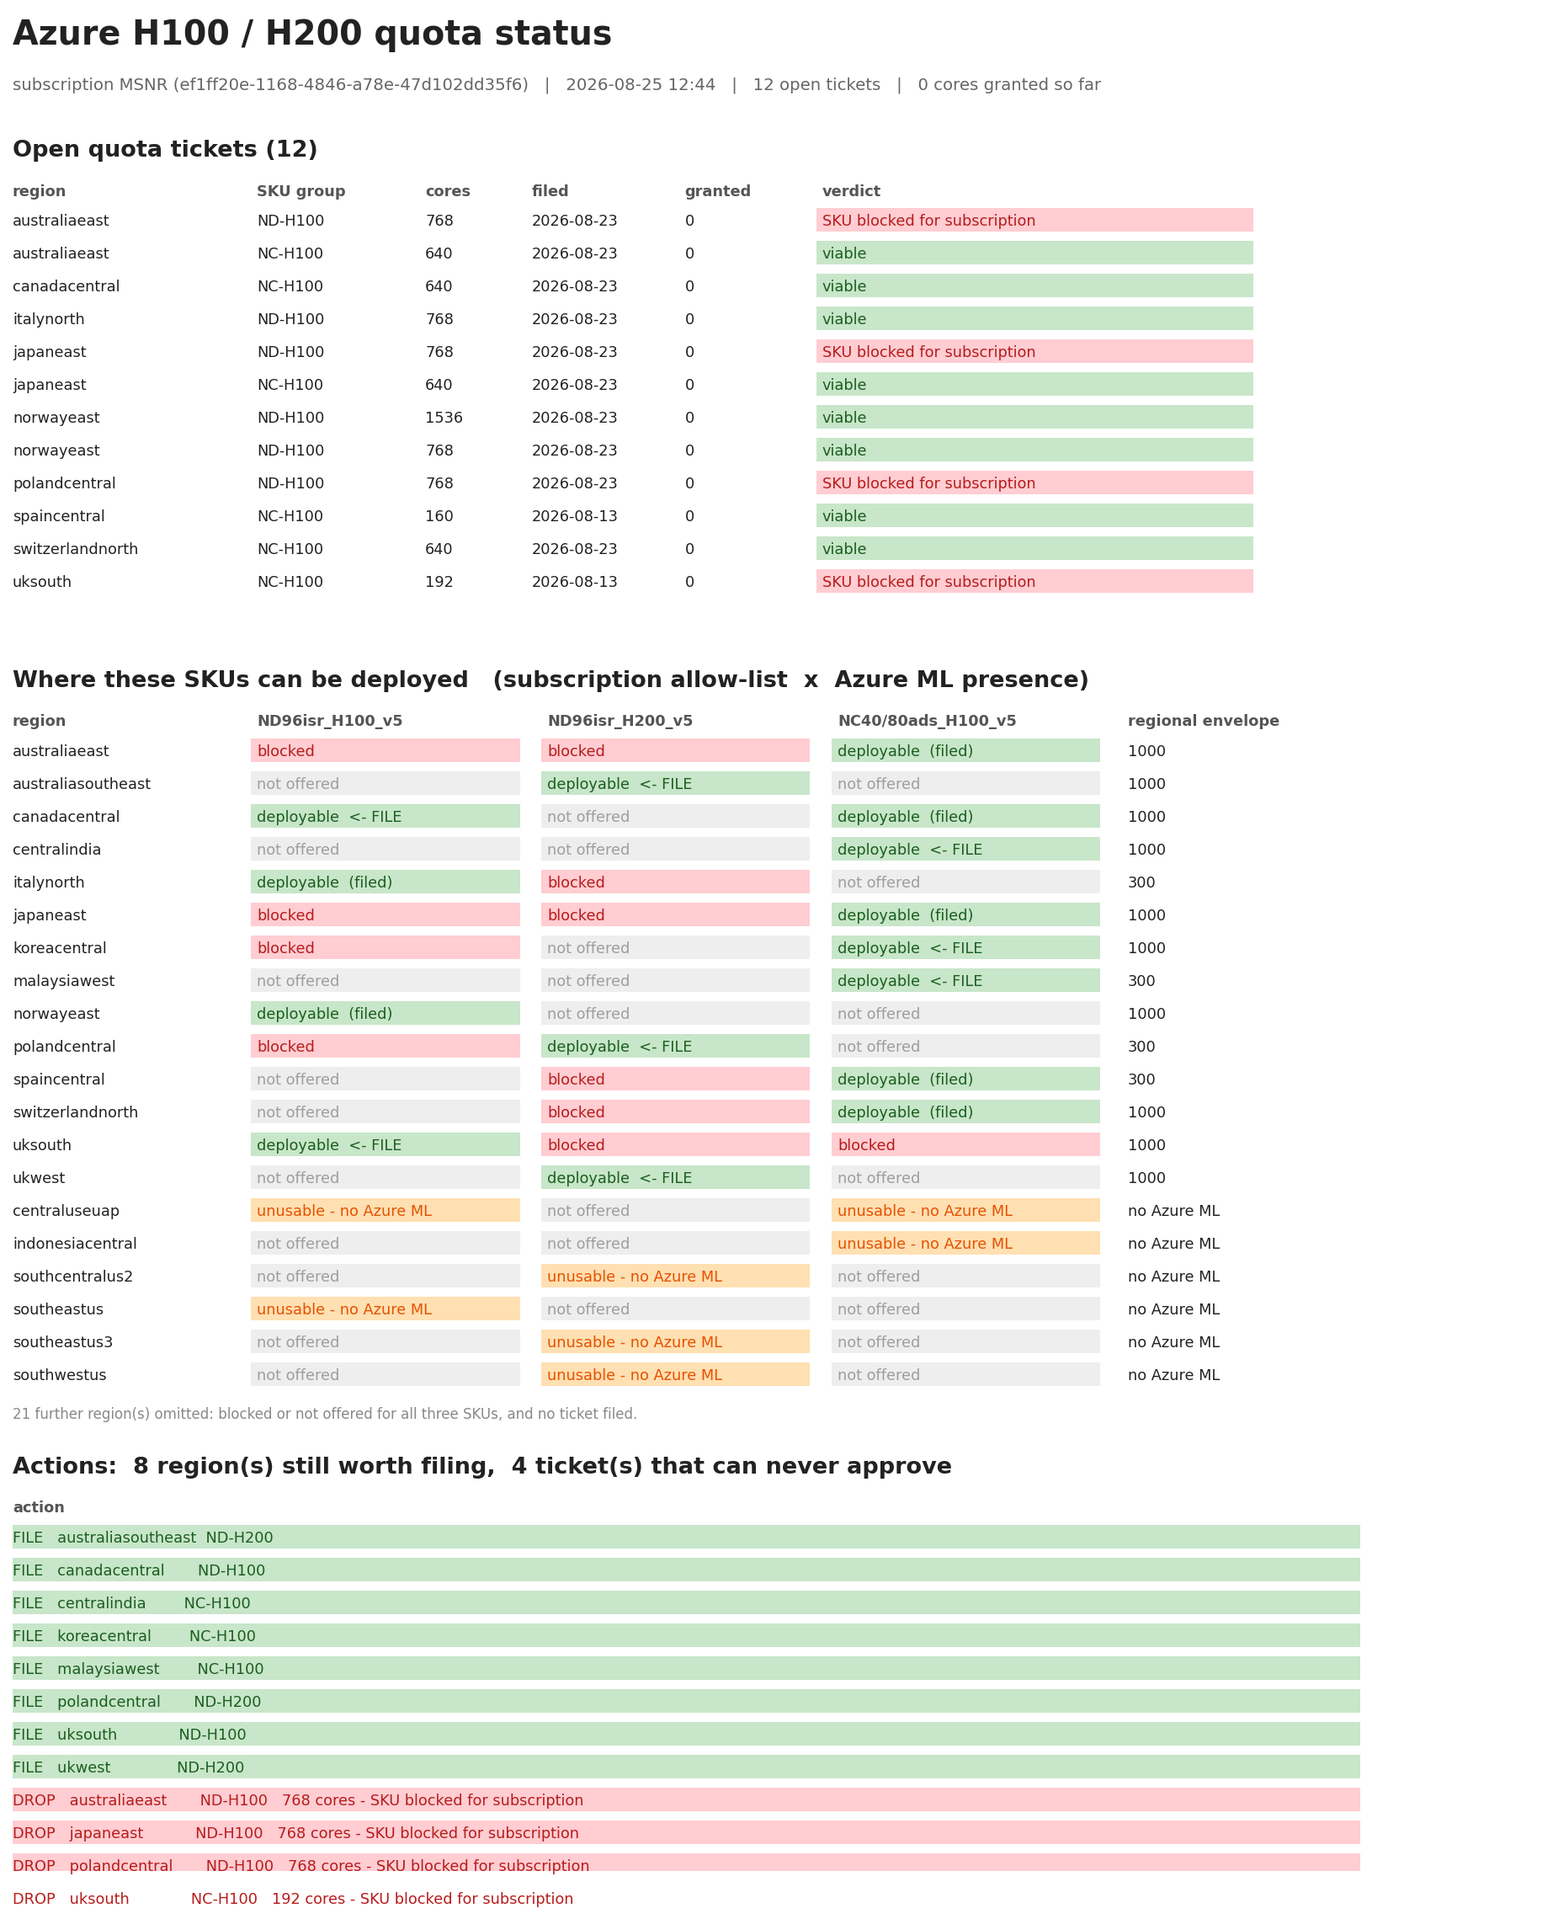
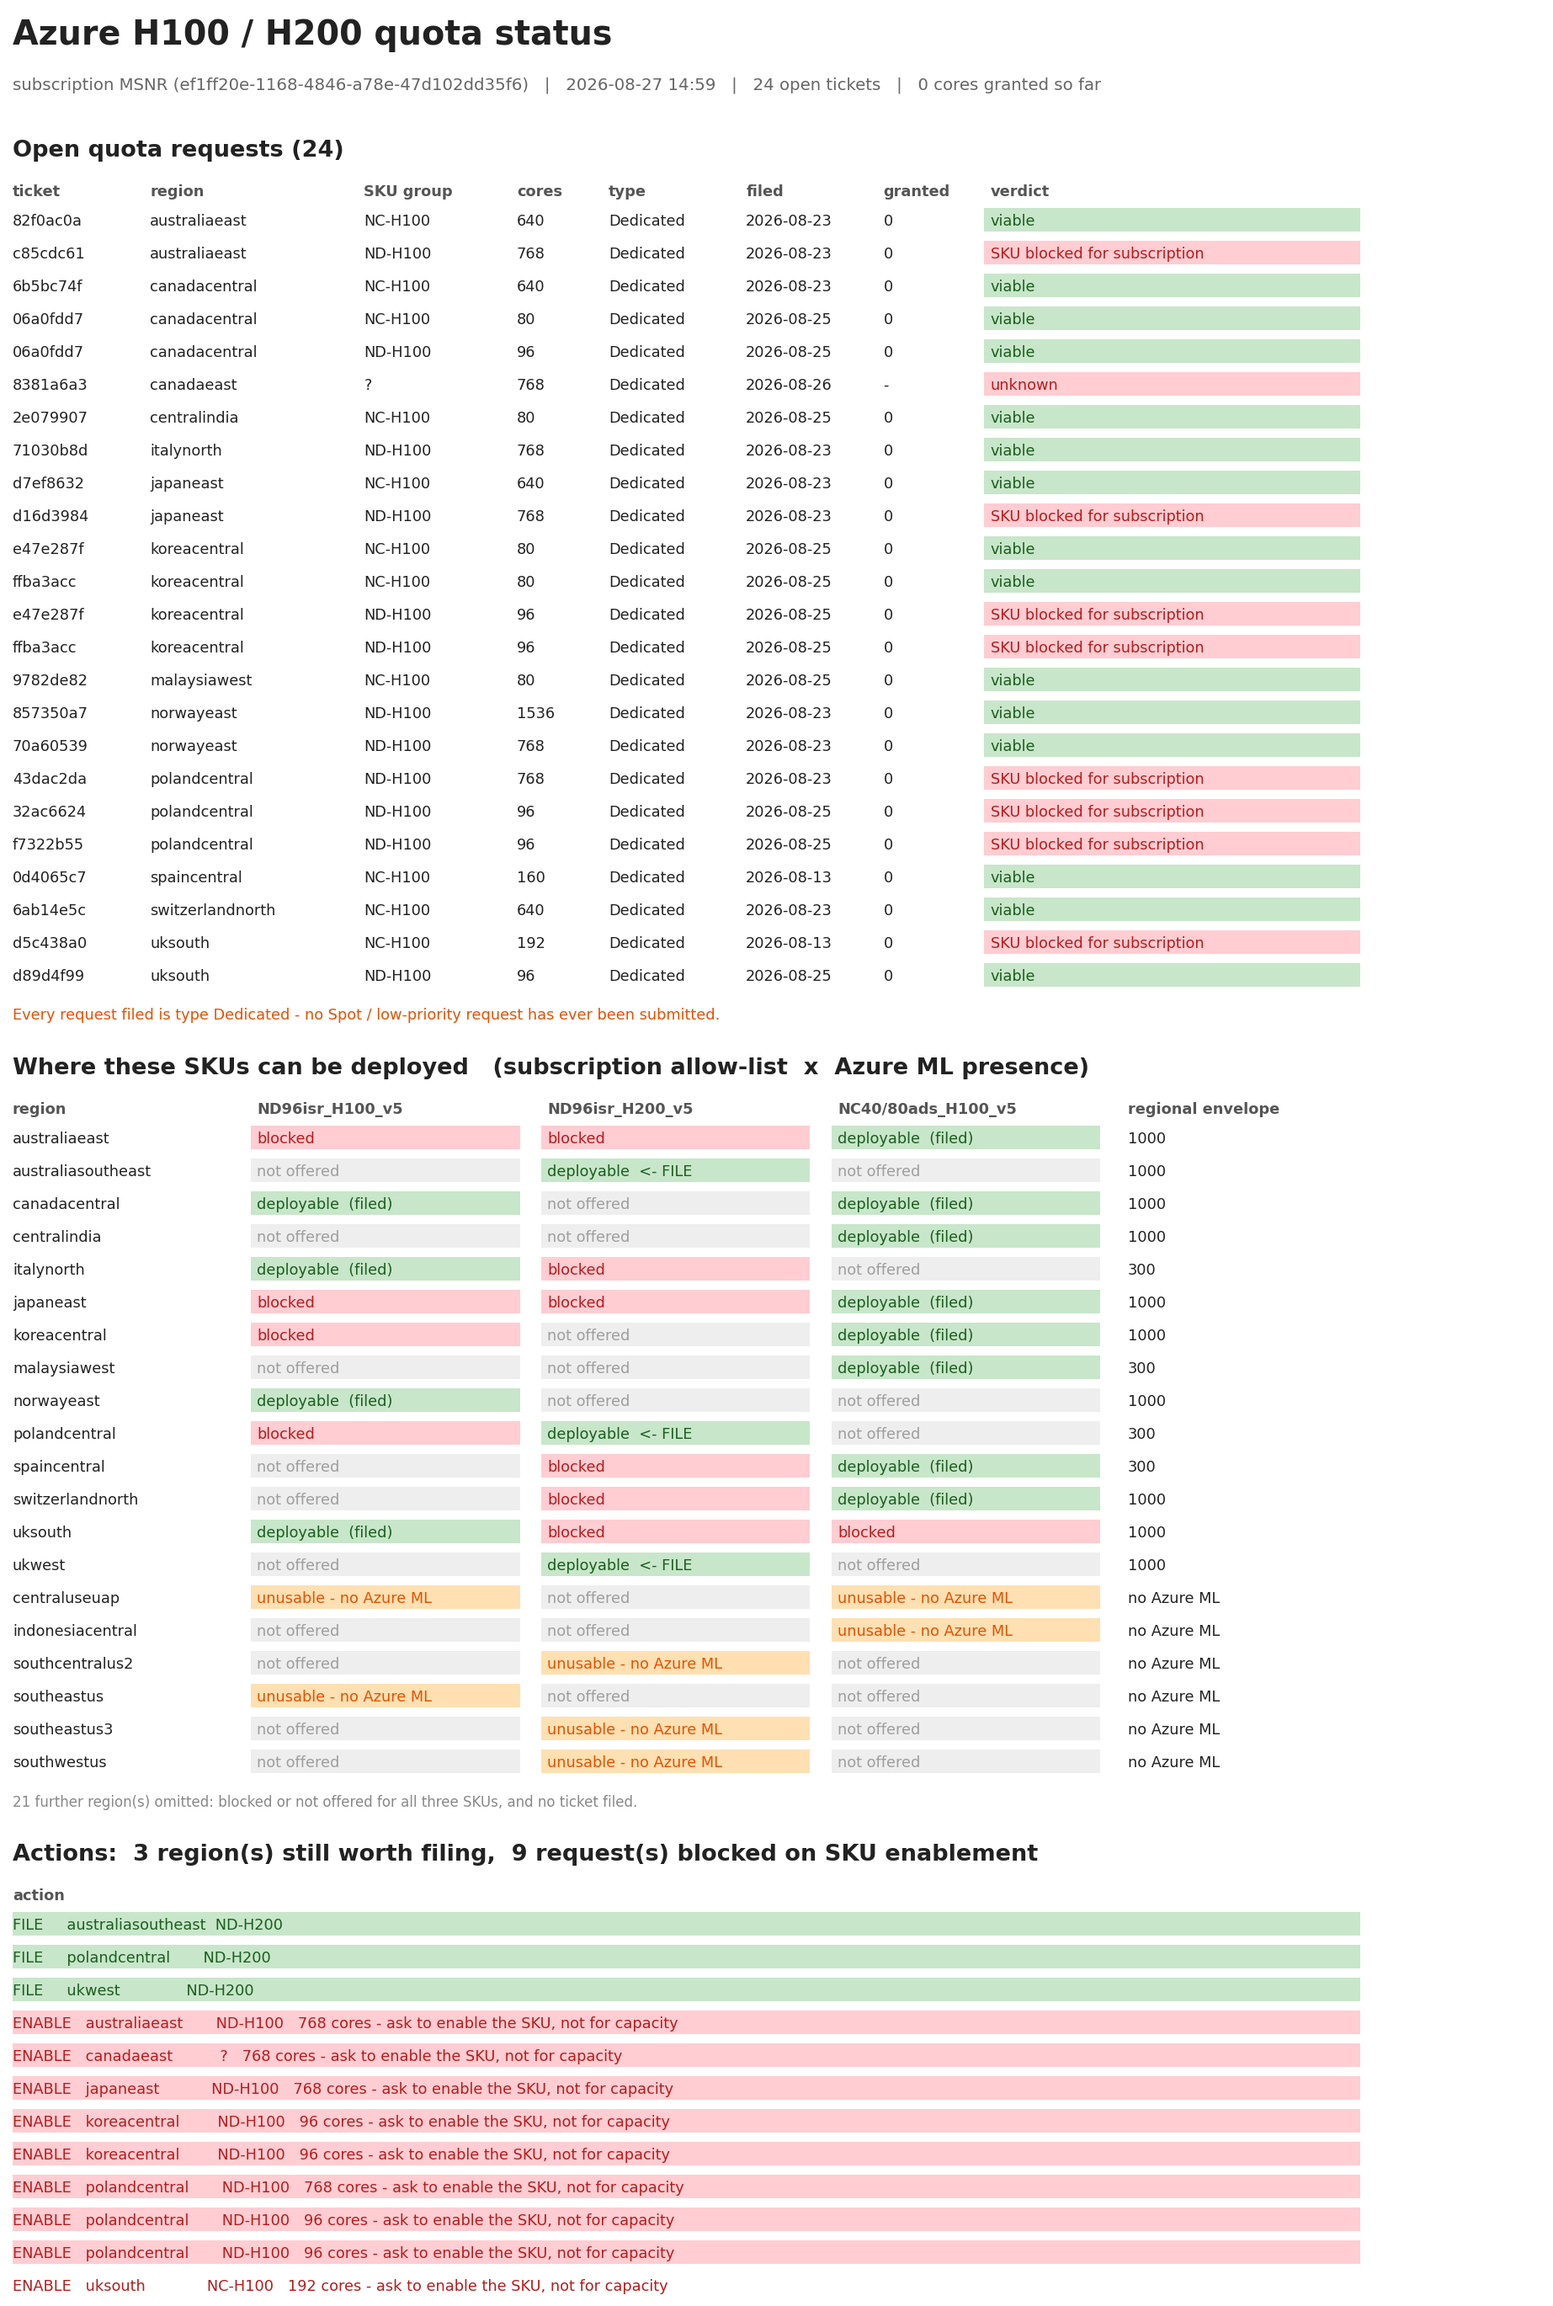
azure: quota board reads ticket payloads, one row per request
fetch_tickets() parsed the support ticket's description text, which names
only ONE of a ticket's quota change requests — the 2026-08-25 batch filed
ND and NC in the same ticket, so the board under-reported what had been
asked for and invented "not yet filed" gaps that were already filed.
quotaTicketDetails is the real payload and the only place the
Dedicated/LowPriority type appears, so read that instead: one row per
change request, with its type.

The report gains a ticket-id column (a region can now legitimately appear
several times, and the id is what the Azure portal keys on).

quota_status.png is the regenerated board.

diff --git a/src/pretrain/azure/quota_board.py b/src/pretrain/azure/quota_board.py
@@ -94,22 +94,40 @@ def fetch_aml(region):
 
 
 def fetch_tickets():
+    """One row per quota CHANGE REQUEST, not per ticket.
+
+    A single ticket can carry several quotaChangeRequests (the 2026-08-25 batch
+    filed ND and NC in the same ticket), and the description names only one of
+    them — reading the description alone silently under-reports what was filed
+    and invents "not yet filed" gaps. quotaTicketDetails is the real payload,
+    and it is also the only place the Dedicated/LowPriority type appears.
+    """
     data = az("rest", "--method", "get", "--url",
               f"https://management.azure.com/subscriptions/{SUB}/providers/"
               "Microsoft.Support/supportTickets?api-version=2020-04-01", "-o", "json")
     rows = []
     for t in (data or {}).get("value", []):
         p = t["properties"]
-        # Region/family/cores live in the description; the title is boilerplate.
-        m = re.search(r"Requesting (\d+) cores for VM Family - (\S+) in (\S+) region",
-                      p.get("description") or "")
-        if not m:
-            continue
-        rows.append(dict(created=p.get("createdDate", "")[:10],
-                         updated=p.get("modifiedDate", "")[:10],
-                         status=p.get("status", ""), region=m.group(3).lower(),
-                         family=m.group(2), cores=int(m.group(1)), id=t["name"]))
-    return sorted(rows, key=lambda r: (r["region"], r["created"]))
+        common = dict(created=p.get("createdDate", "")[:10],
+                      updated=p.get("modifiedDate", "")[:10],
+                      status=p.get("status", ""), id=t["name"])
+        reqs = (p.get("quotaTicketDetails") or {}).get("quotaChangeRequests") or []
+        for q in reqs:
+            try:
+                pl = json.loads(q.get("payload") or "{}")
+            except json.JSONDecodeError:
+                continue
+            rows.append(dict(region=(q.get("region") or "").lower(),
+                             family=pl.get("VMFamily", ""),
+                             cores=int(pl.get("NewLimit") or 0),
+                             type=pl.get("Type", "Dedicated"), **common))
+        if not reqs:   # older tickets without the structured payload
+            m = re.search(r"Requesting (\d+) cores for VM Family - (\S+) in (\S+) region",
+                          p.get("description") or "")
+            if m:
+                rows.append(dict(region=m.group(3).lower(), family=m.group(2),
+                                 cores=int(m.group(1)), type="Dedicated", **common))
+    return sorted(rows, key=lambda r: (r["region"], r["created"], r["family"]))
 
 
 def group_state(skus_in_region, group):
@@ -187,9 +205,9 @@ def verdict(row, group):
 # ----------------------------------------------------------------- text report
 def report(rows, tickets):
     by_region = {r["region"]: r for r in rows}
-    print(f"\n=== Open quota tickets ({len(tickets)}) ===")
-    print(f"  {'region':<19}{'group':<10}{'cores':>6}  {'created':<11}"
-          f"{'granted':>8}  verdict")
+    print(f"\n=== Open quota requests ({len(tickets)}) ===")
+    print(f"  {'ticket':<10}{'region':<19}{'group':<10}{'cores':>6}  {'type':<12}"
+          f"{'created':<11}{'granted':>8}  verdict")
     futile = []
     for t in tickets:
         g = FAMILY_TO_GROUP.get(t["family"].lower(), "?")
@@ -198,8 +216,12 @@ def report(rows, tickets):
         got = granted(row, g) if row and g in GROUPS else None
         if v != "viable":
             futile.append((t, g, v))
-        print(f"  {t['region']:<19}{g:<10}{t['cores']:>6}  {t['created']:<11}"
-              f"{'-' if got is None else got:>8}  {v}")
+        print(f"  {t['id'][:8]:<10}{t['region']:<19}{g:<10}{t['cores']:>6}  "
+              f"{t['type']:<12}{t['created']:<11}{'-' if got is None else got:>8}  {v}")
+    kinds = sorted({t["type"] for t in tickets})
+    print(f"  request types filed: {', '.join(kinds)}"
+          + ("   <- no Spot/low-priority request has ever been filed"
+             if kinds == ["Dedicated"] else ""))
 
     print("\n=== Where these SKUs can be deployed (allow-list x Azure ML) ===")
     print(f"  {'region':<19}" + "".join(f"{g:<11}" for g in GROUPS)
@@ -216,7 +238,11 @@ def report(rows, tickets):
     print(f"\n=== Deployable but NOT yet filed ({len(gaps)}) ===")
     for loc, g in gaps:
         print(f"  {loc:<19}{g}")
-    print(f"\n=== Filed but unapprovable ({len(futile)}) ===")
+    # NOT "cancel these": NotAvailableForSubscription is an allow-list state
+    # support CAN lift, and the quota ticket is the channel for asking. They
+    # just will not approve while framed as a capacity ask.
+    print(f"\n=== Filed against a blocked SKU ({len(futile)}) — "
+          f"needs SKU ENABLEMENT, not more cores ===")
     for t, g, v in futile:
         print(f"  {t['region']:<19}{g:<10}{t['cores']:>6} cores  {v}  [{t['id'][:8]}]")
     return gaps, futile
@@ -296,7 +322,9 @@ def render(rows, tickets, gaps, futile, out):
             v = verdict(row, g)
         got = granted(row, g) if row and g in GROUPS else None
         state = OK if v == "viable" else BLOCKED
-        trows.append([t["region"], g, str(t["cores"]), t["created"],
+        # Short ticket id: enough to quote back to Azure support / match the
+        # portal, without spending a third of the row on a full GUID.
+        trows.append([t["id"][:8], t["region"], g, str(t["cores"]), t["type"], t["created"],
                       "-" if got is None else str(got),
                       (v, *CLR[state])])
 
@@ -321,8 +349,9 @@ def render(rows, tickets, gaps, futile, out):
         cells.append(str(env) if env is not None else "no Azure ML")
         mrows.append(cells)
 
-    arows = [[(f"FILE   {loc:<20}{g}", *CLR[OK])] for loc, g in gaps]
-    arows += [[(f"DROP   {t['region']:<20}{g}   {t['cores']} cores - {v}", *CLR[BLOCKED])]
+    arows = [[(f"FILE     {loc:<20}{g}", *CLR[OK])] for loc, g in gaps]
+    arows += [[(f"ENABLE   {t['region']:<20}{g}   {t['cores']} cores - "
+                f"ask to enable the SKU, not for capacity", *CLR[BLOCKED])]
               for t, g, v in futile]
     if not arows:
         arows = [["nothing to change"]]
@@ -336,10 +365,17 @@ def render(rows, tickets, gaps, futile, out):
            f"{len(tickets)} open tickets   |   {total} cores granted so far",
            size=9.5, color="#666666", advance=2.0)
 
-    p.text(f"Open quota tickets ({len(tickets)})", size=13, weight="bold", advance=1.3)
-    p.table(["region", "SKU group", "cores", "filed", "granted", "verdict"],
-            trows, [0.16, 0.11, 0.07, 0.10, 0.09, 0.30])
-    p.y += 1.8
+    kinds = sorted({t["type"] for t in tickets})
+    p.text(f"Open quota requests ({len(tickets)})", size=13, weight="bold", advance=1.3)
+    p.table(["ticket", "region", "SKU group", "cores", "type", "filed",
+             "granted", "verdict"],
+            trows, [0.09, 0.14, 0.10, 0.06, 0.09, 0.09, 0.07, 0.26])
+    if kinds == ["Dedicated"]:
+        p.text("Every request filed is type Dedicated - no Spot / low-priority "
+               "request has ever been submitted.", size=8.5, color="#e65100",
+               advance=1.6)
+    else:
+        p.y += 1.8
 
     p.text("Where these SKUs can be deployed   (subscription allow-list  x  Azure ML presence)",
            size=13, weight="bold", advance=1.3)
@@ -350,7 +386,7 @@ def render(rows, tickets, gaps, futile, out):
            f"and no ticket filed.", size=8, color="#888888", advance=1.6)
 
     p.text(f"Actions:  {len(gaps)} region(s) still worth filing,  "
-           f"{len(futile)} ticket(s) that can never approve",
+           f"{len(futile)} request(s) blocked on SKU enablement",
            size=13, weight="bold", advance=1.3)
     p.table(["action"], arows, [0.9])
 
